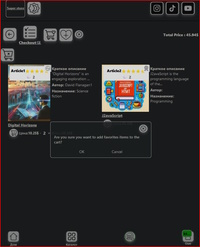
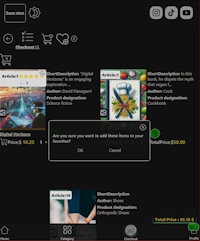
samchense

diff --git a/styles.css b/styles.css
@@ -670,7 +670,9 @@ h4 {
     height: 50px;
     display: flex;
     align-items: center;
-    justify-content: center;
+    /* justify-content: center; */
+    justify-content: space-around;
+    overflow: auto;
     background: var(--nav-bg);
     border-radius: 50%;
     position: absolute;
